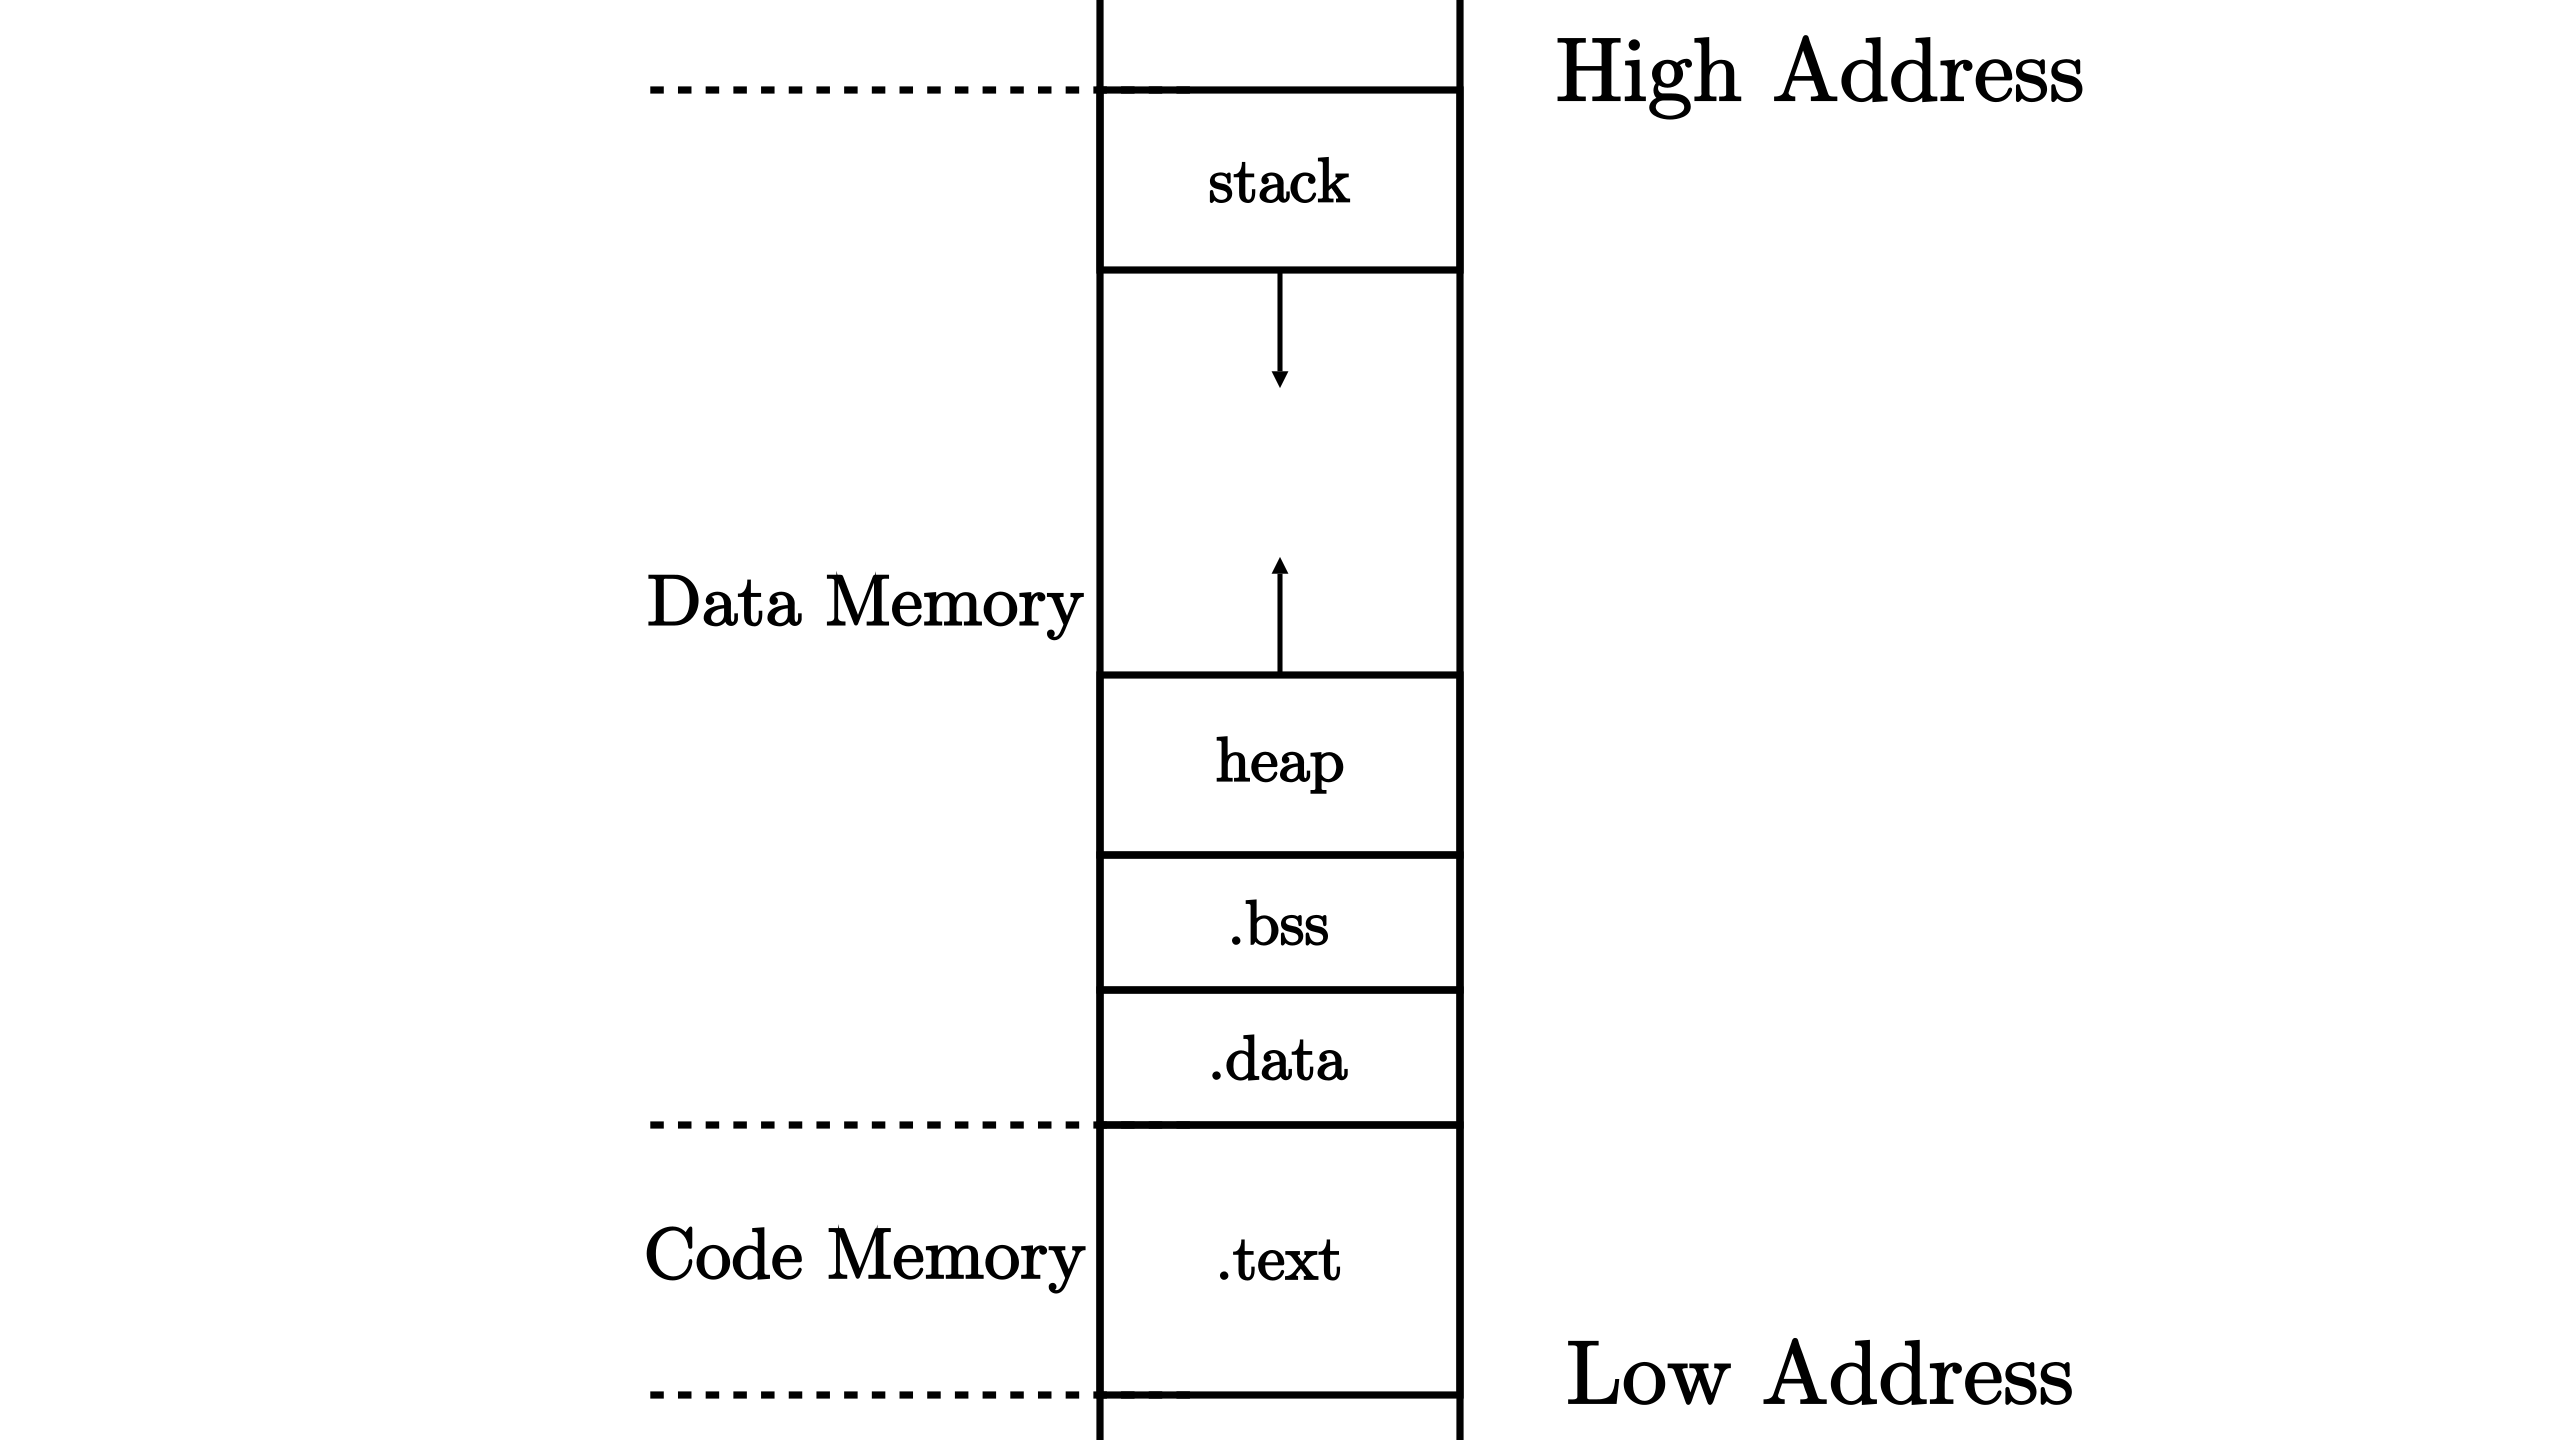
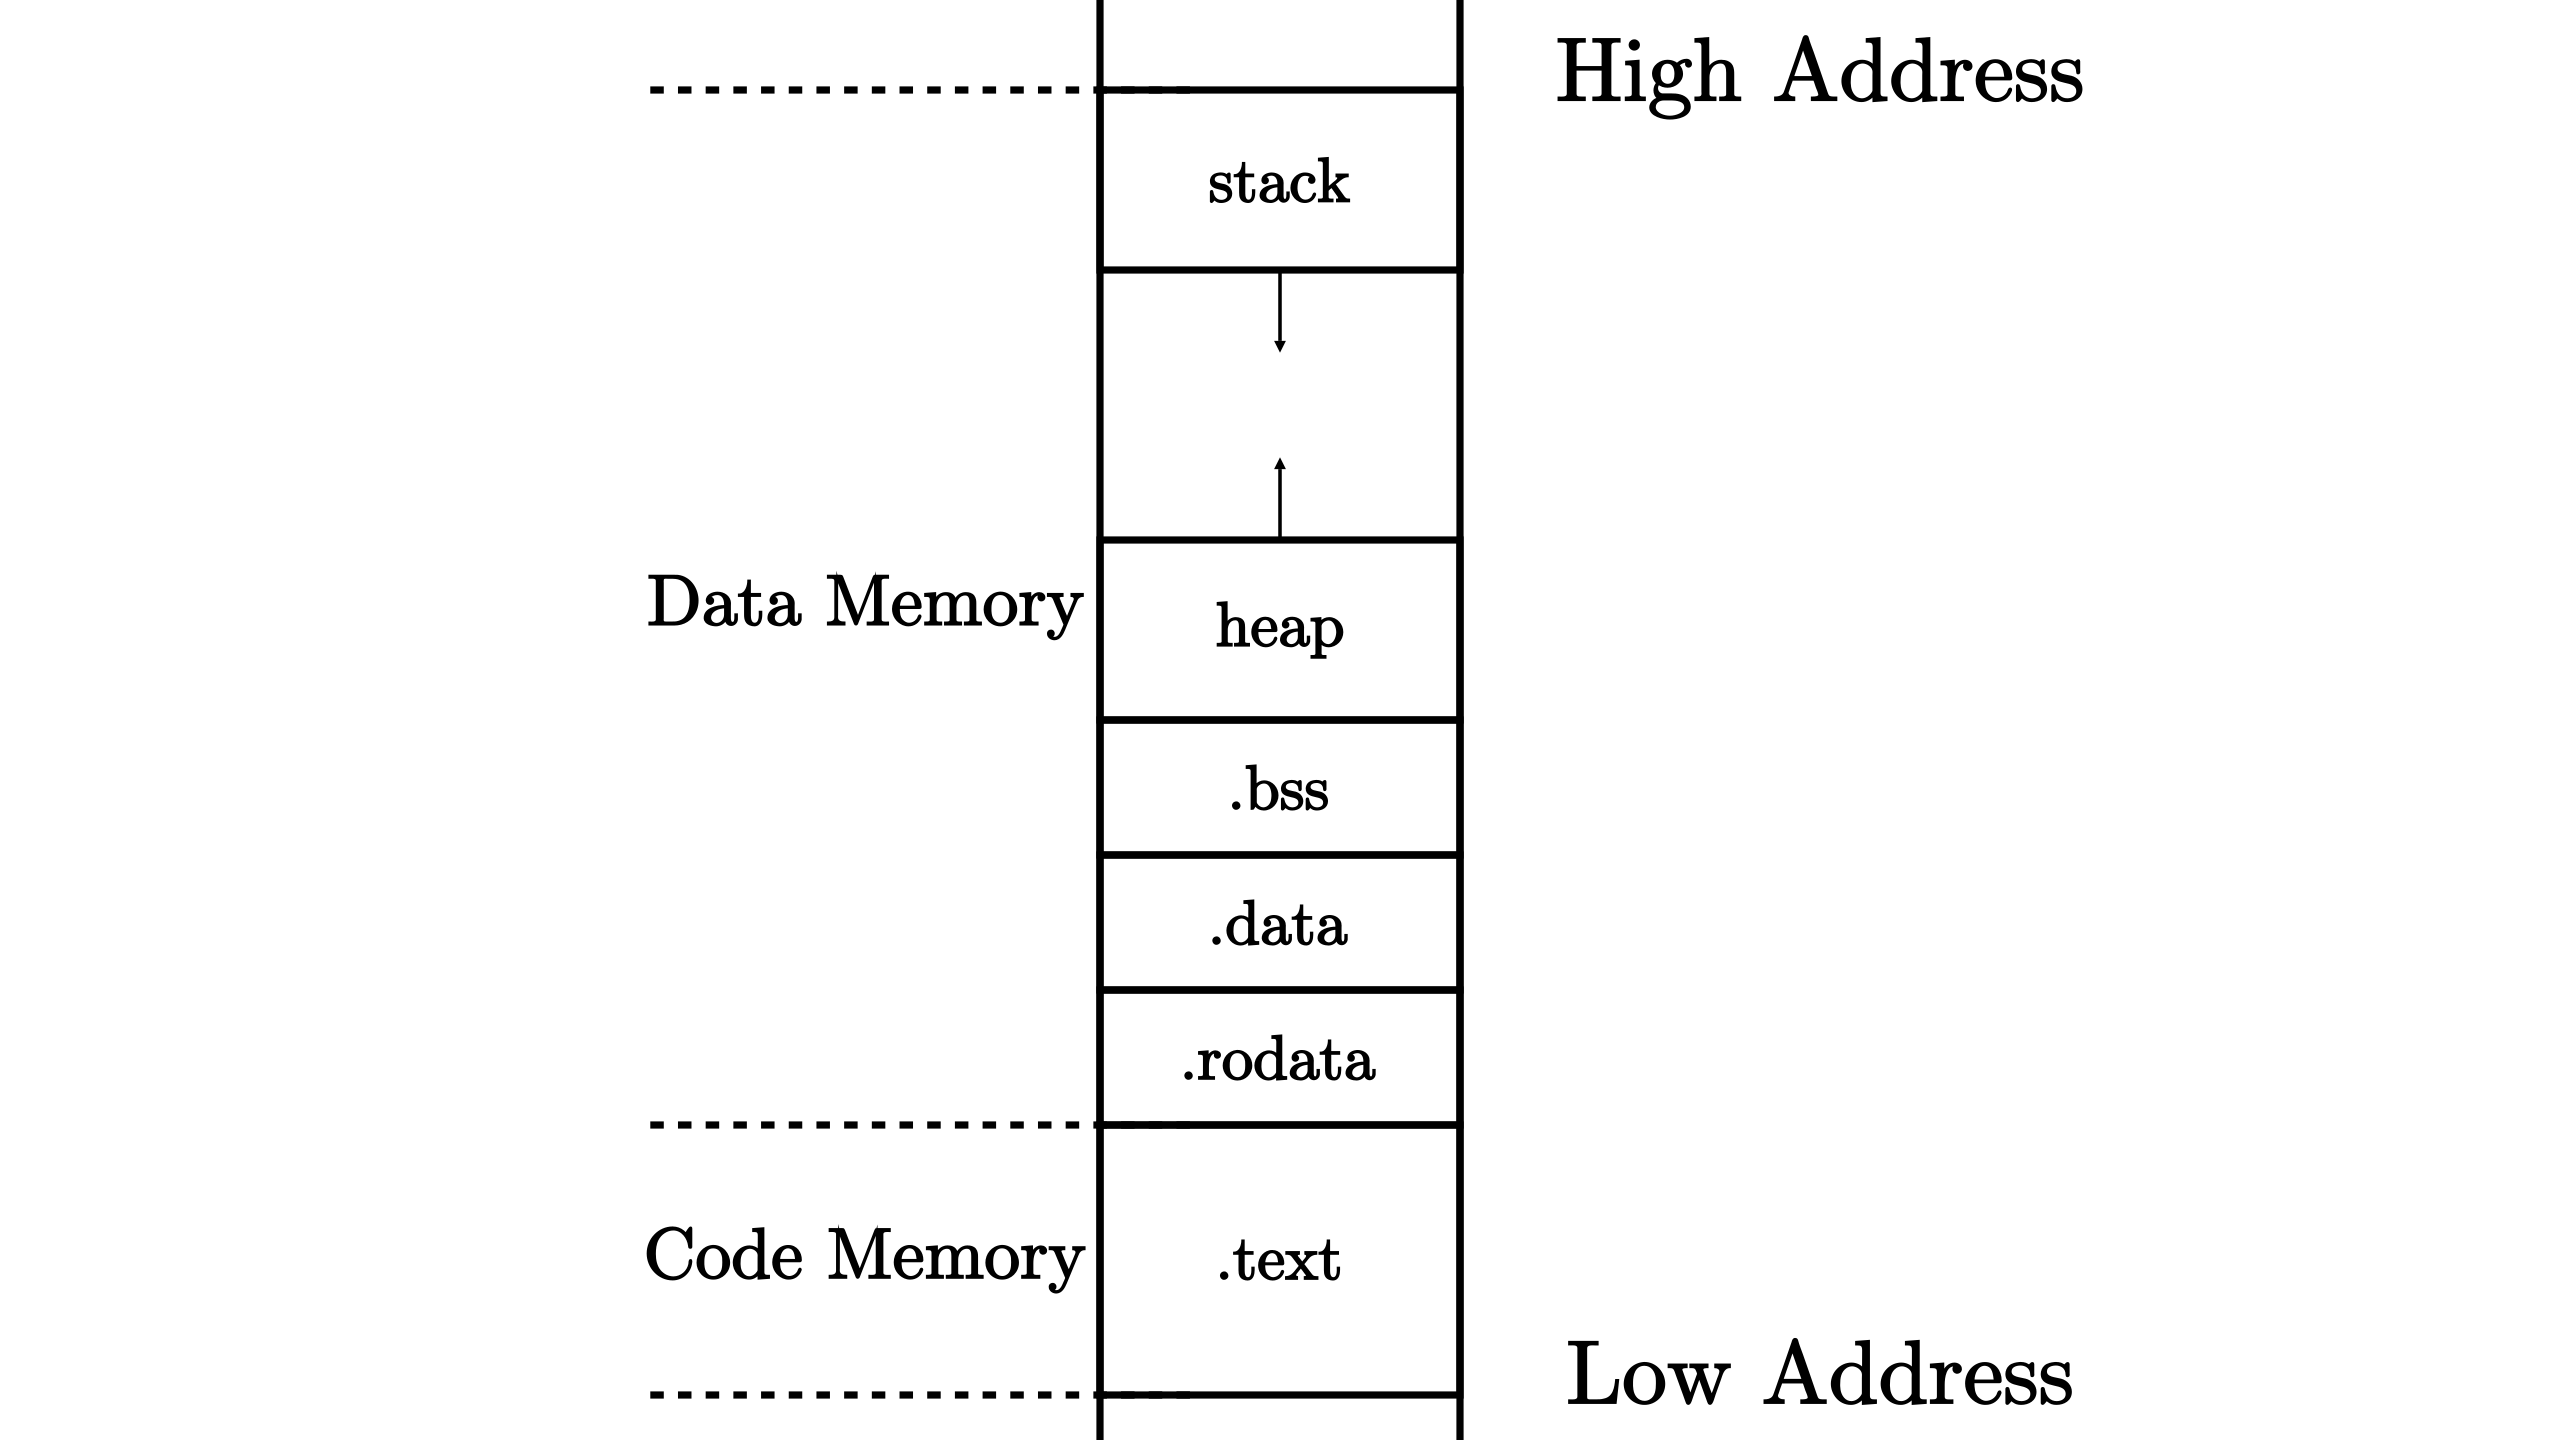
Chapter1-3 MemoryLayout OK.

Changed region(s): [[0.4375, 0.3438, 0.5625, 0.5625], [0.4688, 0.7188, 0.5312, 0.75], [0.4688, 0.625, 0.5312, 0.6562]]

diff --git a/docs/searchindex.js b/docs/searchindex.js
@@ -1,1 +1,1 @@
-Search.setIndex({docnames:["chapter1/1app-ee-platform","chapter1/2remove-std","chapter1/3minimal-rt","chapter1/index","collaboration","index","quickstart","rest-example"],envversion:{"sphinx.domains.c":2,"sphinx.domains.changeset":1,"sphinx.domains.citation":1,"sphinx.domains.cpp":3,"sphinx.domains.index":1,"sphinx.domains.javascript":2,"sphinx.domains.math":2,"sphinx.domains.python":2,"sphinx.domains.rst":2,"sphinx.domains.std":1,sphinx:56},filenames:["chapter1/1app-ee-platform.rst","chapter1/2remove-std.rst","chapter1/3minimal-rt.rst","chapter1/index.rst","collaboration.rst","index.rst","quickstart.rst","rest-example.rst"],objects:{},objnames:{},objtypes:{},terms:{"06":0,"06s":1,"09":0,"0x80000000":2,"0x80020000":2,"11":[0,2],"14":0,"15s":0,"20":2,"2018spring":2,"2019spring":2,"2020":[0,2],"32":[0,2],"48":0,"64":0,"64i":0,"73dc675b9":0,"73dc675b9437c2a51a975a9f58cc66f05463c351":0,"828":2,"abstract":0,"for":[0,2],"function":[1,2],"if":2,"in":[0,1,2],"new":[0,2],"switch":2,"while":2,_info:1,a0:[2,7],a1:2,a7:2,a_:2,a_n:2,activ:2,add:[4,7],address:2,alpha:7,architectur:0,assert:1,bare:0,be:0,berkelei:2,beta:7,bin:0,binari:0,blogo:1,bootload:2,bss:2,build:[1,4],but:1,call:[0,2],calle:2,caller:2,can:0,cannot:1,cargo:[0,1],central:0,commit:[0,4],compil:[0,1],config:1,context:2,control:2,convent:2,core:[0,1],cornel:2,cos:7,cpu:[0,2],crate:0,cross:1,cs3410:2,cs61c:2,data:2,date:0,debug:0,debuginfo:[0,1],deploi:4,destin:2,dev:[0,1],directori:0,doc:4,e0463:0,elf:[0,1,2],environ:0,epilogu:2,err:1,error:[0,1],execut:0,file:0,find:[0,1],finish:[0,1],first:2,flow:2,fn:[0,1,7],found:1,fp:2,from:2,gif:7,git:4,gnu:[0,1],gp:2,grep:0,hash:0,heap:2,hello:[0,1,2],home:[0,1],host:0,html:4,i32:7,imm:2,immedi:2,index:4,instal:[0,4],instruct:[0,2],isa:[0,1],jal:2,jalr:2,jieba:4,lang_item:1,last:2,layout:2,lectur:2,leftarrow:2,lifo:2,linux:[0,1],list:0,llvm:0,loop:1,maco:0,macro:1,mafd:0,mai:0,main:[0,2],make:4,malloc:2,memori:[0,2],merg:4,metal:0,mit:2,mod:1,nightli:0,no_main:1,no_std:1,none:[0,1,2],not:[0,1],note:[0,2],option:1,os:[0,1],out:2,panic:1,panicinfo:1,pc:2,physic:2,pip:4,platform:0,pointer:2,pop:2,print:0,println:0,process:0,processor:0,prologu:2,pseudo:2,push:[2,4],ra:2,rcore:[0,1,6],rd:2,readthedoc:7,record:2,regist:2,releas:0,requir:1,rest:4,restor:2,restructuredtext:4,result:1,ret:2,risc:0,riscv32i:0,riscv32imac:0,riscv32imc:0,riscv64gc:[0,1,2],riscv64imac:0,riscv64imafdc:0,riscv:0,rs:[0,1,2],run:0,rust:[1,7],rustc:0,rustup:0,rv32:0,rv32i:0,rv64gc:1,rv64i:0,s0:2,s11:2,s1:2,save:2,scope:1,section:2,set:0,shinbokuow:[0,1],sin:7,sourc:2,sp:2,sphinx:[4,7],src:[0,1],stack:2,stackfram:2,start:1,std:[0,1],strace:0,system:0,t0:2,t6:2,target:[0,1],text:2,the:0,thi:1,toml:0,tp:2,tree:0,trick:1,triplet:0,tutori:[0,1,6],ubuntu:0,unit:0,unknown:[0,1,2],unoptim:[0,1],unwrap:1,use:1,v0:[0,1],v3:[0,1],verbos:0,version:0,window:0,workspac:[0,1],world:[0,1,2],write:[0,1],x0:2,x1:2,x2:2,x31:2,x3:2,x4:2,x86:0,x86_64:[0,1],zero:2},titles:["\u5e94\u7528\u7a0b\u5e8f\u8fd0\u884c\u73af\u5883\u4e0e\u5e73\u53f0\u652f\u6301","\u79fb\u9664\u6807\u51c6\u5e93\u4f9d\u8d56","\u91cd\u5efa\u6700\u5c0f\u5316\u8fd0\u884c\u65f6","\u7b2c\u4e00\u7ae0\uff1a\u7f16\u8bd1\u8fd0\u884c RV64 \u88f8\u673a\u7a0b\u5e8f","\u9879\u76ee\u534f\u4f5c","rCore-Tutorial-Book \u7b2c\u4e09\u7248","\u5feb\u901f\u4e0a\u624b","reStructuredText \u57fa\u672c\u8bed\u6cd5"],titleterms:{book:5,main:1,panic_handl:1,println:1,rcore:5,restructuredtext:7,risc:2,rust:0,rv64:3,tutori:5}})
+Search.setIndex({docnames:["chapter1/1app-ee-platform","chapter1/2remove-std","chapter1/3minimal-rt","chapter1/index","collaboration","index","quickstart","rest-example"],envversion:{"sphinx.domains.c":2,"sphinx.domains.changeset":1,"sphinx.domains.citation":1,"sphinx.domains.cpp":3,"sphinx.domains.index":1,"sphinx.domains.javascript":2,"sphinx.domains.math":2,"sphinx.domains.python":2,"sphinx.domains.rst":2,"sphinx.domains.std":1,sphinx:56},filenames:["chapter1/1app-ee-platform.rst","chapter1/2remove-std.rst","chapter1/3minimal-rt.rst","chapter1/index.rst","collaboration.rst","index.rst","quickstart.rst","rest-example.rst"],objects:{},objnames:{},objtypes:{},terms:{"06":0,"06s":1,"09":0,"0x80000000":2,"0x80020000":2,"11":[0,2],"14":0,"15s":0,"20":2,"2018spring":2,"2019spring":2,"2020":[0,2],"32":[0,2],"48":0,"64":0,"64i":0,"73dc675b9":0,"73dc675b9437c2a51a975a9f58cc66f05463c351":0,"828":2,"abstract":0,"for":[0,2],"function":[1,2],"if":2,"in":[0,1,2],"new":[0,2],"switch":2,"while":2,_info:1,a0:[2,7],a1:2,a7:2,a_:2,a_n:2,activ:2,add:[4,7],address:2,alpha:7,architectur:0,ascii:2,assembl:2,assert:1,bare:0,be:0,berkelei:2,beta:7,bin:0,binari:0,blogo:1,bootload:2,bss:2,build:[1,4],but:1,call:[0,2],calle:2,caller:2,can:0,cannot:1,cargo:[0,1],central:0,commit:[0,4],compil:[0,1,2],config:1,context:2,control:2,convent:2,core:[0,1],cornel:2,cos:7,cpu:[0,2],crate:0,cross:1,cs3410:2,cs61c:2,data:2,date:0,debug:0,debuginfo:[0,1],deploi:4,destin:2,dev:[0,1],directori:0,doc:4,e0463:0,elf:[0,1,2],environ:0,epilogu:2,err:1,error:[0,1],execut:0,file:[0,2],find:[0,1],finish:[0,1],first:2,flow:2,fn:[0,1,7],found:1,fp:2,from:2,gif:7,git:4,gnu:[0,1],gp:2,grep:0,hash:0,heap:2,hello:[0,1,2],home:[0,1],host:0,html:4,i32:7,imm:2,immedi:2,index:4,instal:[0,4],instruct:[0,2],isa:[0,1],jal:2,jalr:2,jieba:4,lang_item:1,last:2,layout:2,lectur:2,leftarrow:2,lifo:2,linker:2,linux:[0,1],list:0,llvm:0,loop:1,maco:0,macro:1,mafd:0,mai:0,main:[0,2],make:4,malloc:2,memori:[0,2],merg:4,metal:0,mit:2,mod:1,nightli:0,no_main:1,no_std:1,none:[0,1,2],not:[0,1],note:[0,2],object:2,option:1,os:[0,1],out:2,panic:1,panicinfo:1,pc:2,physic:2,pip:4,platform:0,pointer:2,pop:2,print:0,println:0,process:0,processor:0,prologu:2,pseudo:2,push:[2,4],ra:2,rcore:[0,1,6],rd:2,readthedoc:7,record:2,regist:2,releas:0,requir:1,rest:4,restor:2,restructuredtext:4,result:1,ret:2,risc:0,riscv32i:0,riscv32imac:0,riscv32imc:0,riscv64gc:[0,1,2],riscv64imac:0,riscv64imafdc:0,riscv:0,rodata:2,rs:[0,1,2],run:0,rust:[1,7],rustc:0,rustup:0,rv32:0,rv32i:0,rv64gc:1,rv64i:0,s0:2,s11:2,s1:2,save:2,scope:1,script:2,section:2,set:0,shinbokuow:[0,1],sin:7,sourc:2,sp:2,sphinx:[4,7],src:[0,1],stack:2,stackfram:2,start:1,std:[0,1],strace:0,system:0,t0:2,t6:2,target:[0,1],text:2,the:0,thi:1,toml:0,tp:2,tree:0,trick:1,triplet:0,tutori:[0,1,6],ubuntu:0,unit:0,unknown:[0,1,2],unoptim:[0,1],unwrap:1,use:1,v0:[0,1],v3:[0,1],verbos:0,version:0,window:0,workspac:[0,1],world:[0,1,2],write:[0,1],x0:2,x1:2,x2:2,x31:2,x3:2,x4:2,x86:0,x86_64:[0,1],zero:2},titles:["\u5e94\u7528\u7a0b\u5e8f\u8fd0\u884c\u73af\u5883\u4e0e\u5e73\u53f0\u652f\u6301","\u79fb\u9664\u6807\u51c6\u5e93\u4f9d\u8d56","\u91cd\u5efa\u6700\u5c0f\u5316\u8fd0\u884c\u65f6","\u7b2c\u4e00\u7ae0\uff1a\u7f16\u8bd1\u8fd0\u884c RV64 \u88f8\u673a\u7a0b\u5e8f","\u9879\u76ee\u534f\u4f5c","rCore-Tutorial-Book \u7b2c\u4e09\u7248","\u5feb\u901f\u4e0a\u624b","reStructuredText \u57fa\u672c\u8bed\u6cd5"],titleterms:{book:5,main:1,panic_handl:1,println:1,rcore:5,restructuredtext:7,risc:2,rust:0,rv64:3,tutori:5}})
